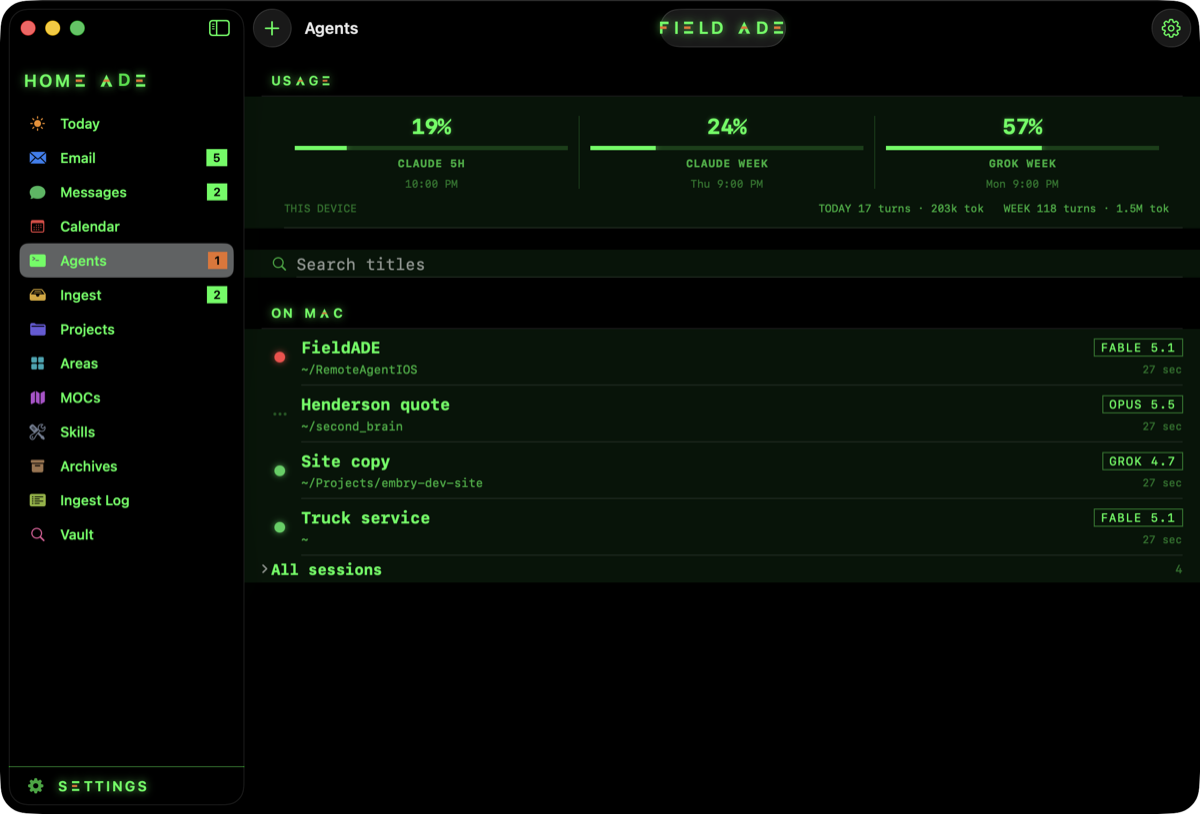
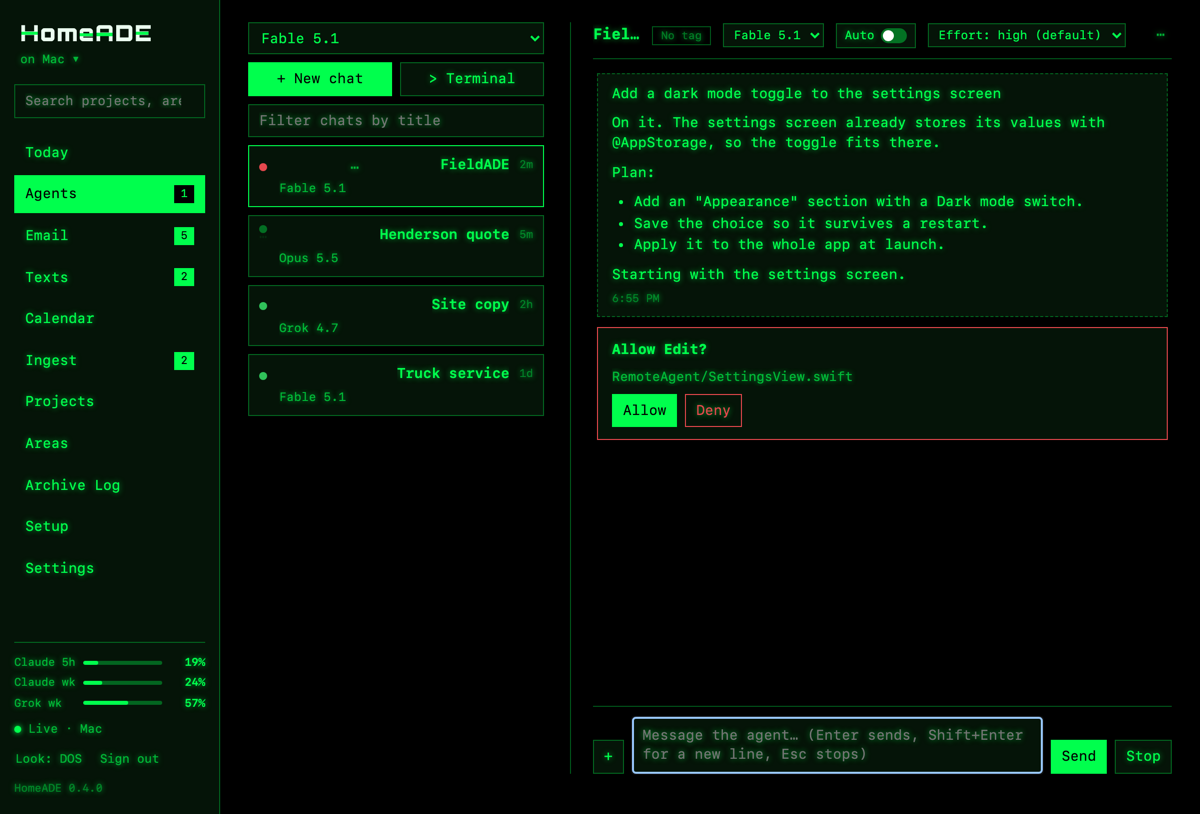
HomeADE screenshots retaken from a stand-in, both looks.
The stand-in home base now serves the real web page from RemoteAgentMac/web
and answers its extra routes, so headless Chromium shoots the Agents screen
with made-up chats and an Allow / Deny card. Replaces the pixel-edited
0.2.0 window. Alt text matches the new picture.

diff --git a/scripts/fieldade-shots/README.md b/scripts/fieldade-shots/README.md
@@ -136,3 +136,16 @@ done
 - `make-mission.py` email rows carry `plan`; the Dana plan's due date must equal the first Due item's date, or the triage and Today shots disagree.
 - Shots: `-demoSection email`, `-demoSection email -demoTriage 0`, `-demoSection today`; copy with `sips -z 1000 460` to `public/map/<name>[-dos].png`.
 - Build without `-sdk iphonesimulator` (destination only). With `-sdk`, SwiftTerm's build-info tool lands in `Debug-iphonesimulator/` and its plugin step fails looking in `Debug/`. "failed with exit code 0" lines still leave a working `RemoteAgent.app`.
+
+## HomeADE shots (2026-11-20)
+
+The Mac window is the home base's own web page (`RemoteAgentMac/web/`, served at `/app`), so `server.mjs` serves that folder too (`WEB_DIR` overrides the path) and answers the few extra routes the page asks for (`/peers`, `/tags`, history, …) with empty lists. A HomeADE build always reads the real home base; never screenshot it.
+
+```
+python3 make-mission.py && node server.mjs      # as above
+node shoot-homeade.mjs                           # → /tmp/fa-shots/homeade-{pro,dos}.png, 2400×1628
+sips -z 814 1200 /tmp/fa-shots/homeade-pro.png --out ../../public/work/homebase.png
+sips -z 814 1200 /tmp/fa-shots/homeade-dos.png --out ../../public/work/homebase-dos.png
+```
+
+The script opens the Agents screen, clicks the FieldADE chat's title (the row's ⋯ button is a menu), waits for the scripted reply and the Allow / Deny card, and shoots each look at 1200×814 in the dark color scheme. The footer version comes from `src/data/homeade-releases.json`. Playwright is the real home base's `node_modules/playwright`.
